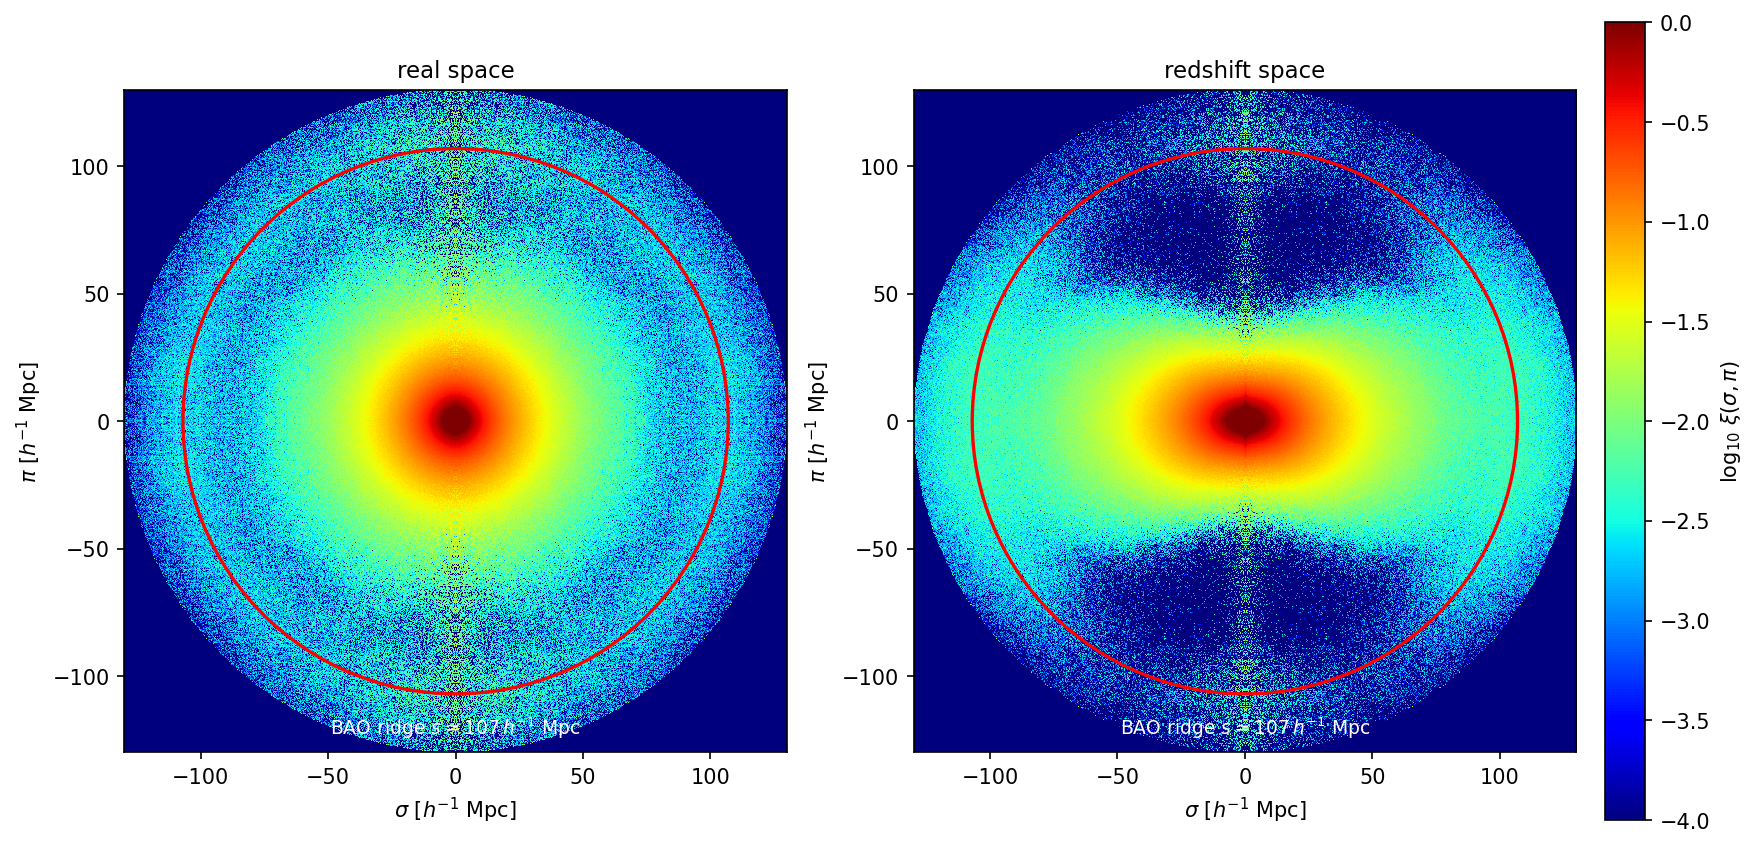
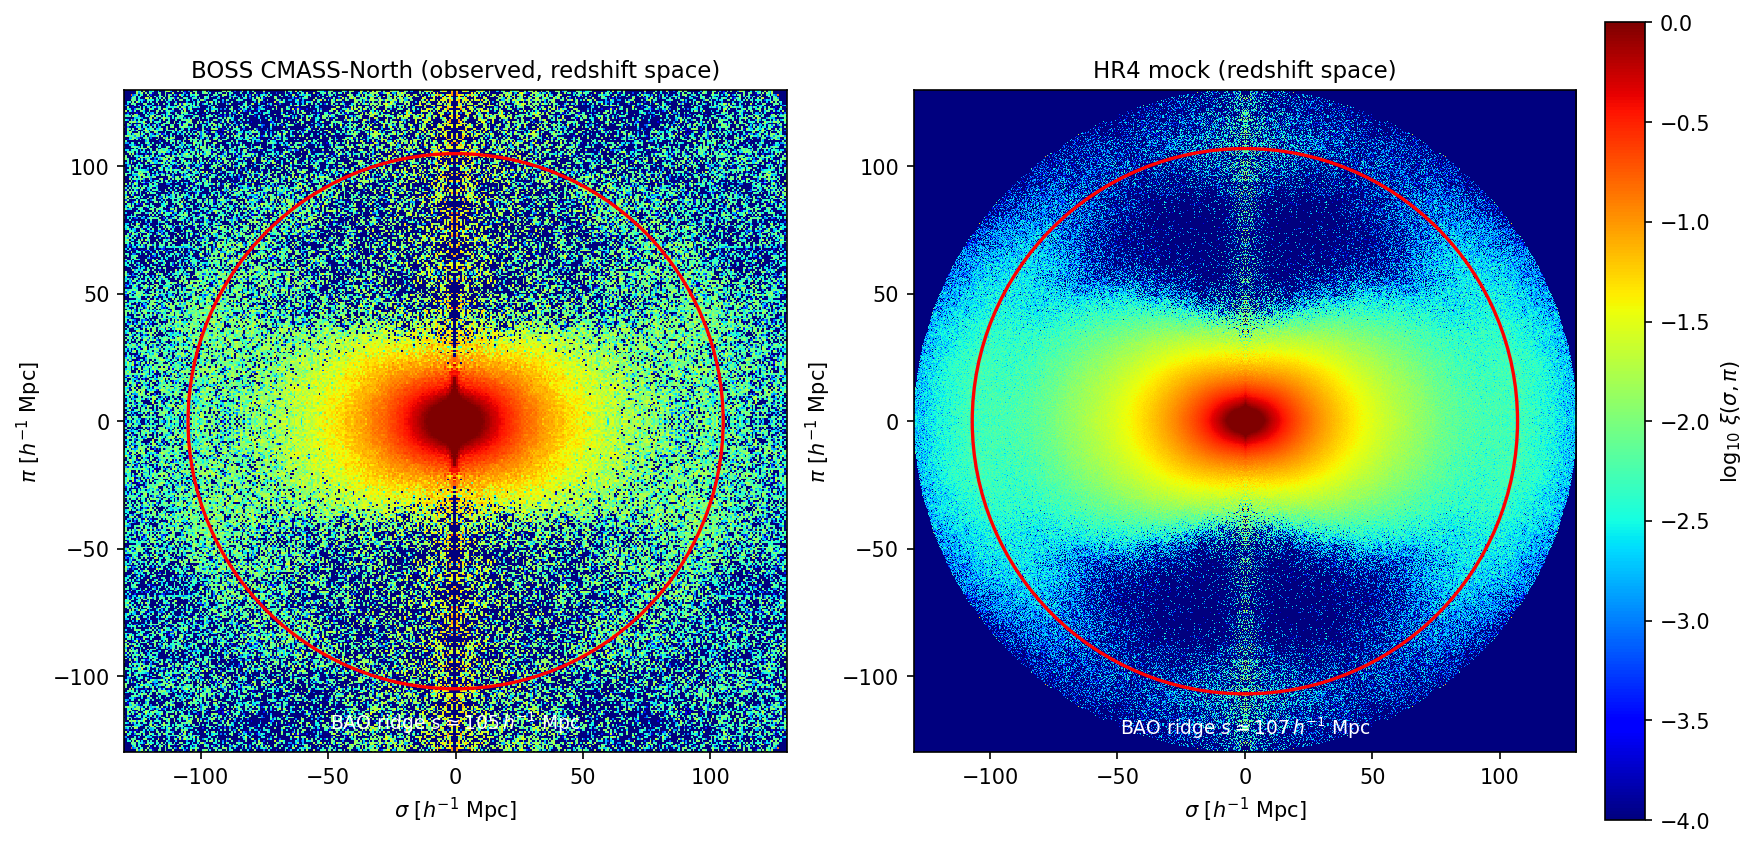
Replace HR4 real-space panel in fig:hr4xi with observed BOSS CMASS-North redshift-space correlation (obscorr pair counts), same colorbar and +-130 h^-1 Mpc radius as the HR4 mock panel; update caption and Figures-and-Sources text accordingly

Changed region(s): [[0.0615, 0.0614, 0.461, 0.8902], [0.6147, 0.0614, 0.7991, 0.0921]]

diff --git a/docs/cosmology_35m_R1000_proposal.tex b/docs/cosmology_35m_R1000_proposal.tex
@@ -1104,7 +1104,7 @@ while the quadrupole-to-monopole structure of $\xi(\sigma,\pi)$ constrains $\fsi
 \begin{figure}[tp]
 \centering
 \includegraphics[width=0.80\textwidth]{gal_corr_hr4.png}
-\caption{Two-dimensional galaxy correlation function $\xi(\sigma,\pi)$ of the Horizon Run 4 mock galaxy catalog \cite{hr4}, rendered directly from the author's pair-count measurement in real space (left) and redshift space (right). The dashed circle marks the BAO scale at $s\simeq107\,h^{-1}$\,Mpc. The nearly circular real-space BAO ring provides the standard ruler, while its anisotropic appearance in redshift space, the small-scale fingers of god and the large-scale Kaiser squashing, encodes the radial BAO scale and the RSD growth information.}
+\caption{Two-dimensional galaxy correlation function $\xi(\sigma,\pi)$ in redshift space, both panels drawn to a common $\pm130\,h^{-1}$\,Mpc radius on the same $\log_{10}|\xi|$ color scale. Left: the observed BOSS CMASS-North catalog, 568{,}776 galaxies against 5{,}000{,}000 randoms with the Landy--Szalay estimator of Eq.~\eqref{eq:xiestimator}, with the solid circle marking its fitted BAO ridge at $s\simeq105\,h^{-1}$\,Mpc. Right: the Horizon Run 4 mock galaxy catalog \cite{hr4}, rendered directly from the author's pair-count measurement, with the solid circle marking its BAO ridge at $s\simeq107\,h^{-1}$\,Mpc. The mock reproduces the same redshift-space distortion signature seen in the real data, the small-scale fingers of god along $\pi$ and the large-scale Kaiser squashing. Therefore, the clustering pipeline used for the ELG forecast is shown recovering the expected anisotropy directly from real galaxies first.}
 \label{fig:hr4xi}
 \end{figure}
 
@@ -2196,7 +2196,7 @@ Figure~\ref{fig:surveytimeline} draws all of the above together into one Sun-ang
 \end{figure}
 
 \section*{Figures and Sources}
-Most schematic figures in this document are generated directly in \LaTeX\ using TikZ. Figure~\ref{fig:crowded} is a slitless scene simulation generated locally at the baseline instrument parameters with the tracked script \texttt{make\_slitless\_scene\_sim.py}, using the repository's FSPS galaxy templates as source spectra. Figure~\ref{fig:slicer} is generated locally with the tracked script \texttt{make\_hsc\_slicer\_demo.py}, using the same instrument parameters and FSPS templates as Figure~\ref{fig:crowded}, but with source positions, brightnesses, sizes, ellipticities, and position angles measured from a real Subaru HSC-SSP deep image of the SXDS/UDS/XMM-LSS anchor \cite{aihara2018} instead of a synthetic population. Figure~\ref{fig:elgspectrum} uses an observed bright SDSS DR17 low-redshift emission-line galaxy spectrum converted to a local plotting table. Figure~\ref{fig:elgobswavez} stacks actual SDSS/BOSS and DESI DR1 spectra retrieved through SPARCL together with HST WFC3/G141 3D-HST COSMOS grism spectra (v4.1.5 1D extractions) and JWST/NIRSpec PRISM star-forming galaxy spectra (msaexp 1D extractions from the DAWN JWST Archive) on an approximately uniform display grid in redshift, spanning the full $0.36$--$3.0\,\mu$m proposed range. Figures~\ref{fig:elgmagdepth} and \ref{fig:desiMlf} use the DESI DR1 LSS ELG catalog with an observed-frame absolute magnitude computed locally from the downloaded FITS table. In Figure~\ref{fig:desiMlf} the binned observed-frame luminosity function is additionally fit with a Schechter function on the bright side of each redshift bin and shown as smooth curves. Figure~\ref{fig:phillips} plots the real Carnegie Supernova Project\,I sample of 139 SNe Ia (Burns et~al.\ \cite{burns2018csp}, VizieR catalog J/ApJ/869/56), computing the host-extinction-corrected peak absolute magnitude $M_V=V_{\max}-\mu_{\rm CV}-R_V\,E(B\!-\!V)$ from the tabulated distance modulus and reddening, plotting it against the tabulated $\Delta m_{15}(B)$, and overlaying a quadratic Phillips relation fitted locally to those points. The figure layout follows Figure 11 of Zeng et~al.\ \cite{zeng2025sn2023ehl}. Figure~\ref{fig:uvtwins} plots the observed flux-calibrated Swift/UVOT UV-grism spectra of SN\,2011fe and SN\,2011by near maximum, retrieved from the Open Supernova Catalog archive \cite{guillochon2017}, deredshifted and scaled over the optical. Figure~\ref{fig:sniacosmo} (the multi-cosmology SN Ia Hubble diagram with current and target Hubble-residual scatter) is generated locally with \texttt{astropy} distance moduli for the four cosmologies against the real Pantheon$+$SH0ES sample \cite{brout2022}, retaining the 1580 Hubble-flow SNe Ia ($z>0.01$, Cepheid calibrators removed). Figure~\ref{fig:nuvband} is generated in TikZ and shows the redshifting of fixed rest-frame wavelengths into the proposed observed band. Figure~\ref{fig:lyathreshold} is computed locally, integrating a Voigt profile to obtain the Ly$\alpha$ curve of growth and inverting it against the $R=1000$ detection limit of Eq.~\eqref{eq:wmin} to give the minimum detectable H\,\textsc{i} column density. Figure~\ref{fig:lya3dexternal} is an external CLAMATO 3D Ly$\alpha$ forest tomography rendering from the arXiv source package. Figure~\ref{fig:hr4xi} is rendered locally from the author's Horizon Run 4 pair-count measurement, the raw $\xi(\sigma,\pi)$ grids in real and redshift space, rather than from any published figure. Figures~\ref{fig:sidmsigmav} and \ref{fig:fdmslice} are the original figures from the arXiv source packages of Kaplinghat, Tulin \& Yu \cite{kaplinghat2016} and Schive et~al.\ \cite{schive2014}, reproduced as published and marked courtesy in their captions, because the underlying per-system cross-section fits and wave-simulation data are not public. Figure~\ref{fig:sparcdiv} is drawn locally from the public SPARC mass-model files \cite{lelli2016}. Figure~\ref{fig:fdmconstraints} is drawn locally from the published bounds quoted in its caption. Figures~\ref{fig:cirrusfil} and \ref{fig:cirruscolors} are the original figures from the arXiv source package of Rom\'an, Trujillo \& Montes \cite{roman2020}, reproduced as published and marked courtesy in their captions, because the processed deep mosaics and per-field cirrus colour measurements behind them are not public. Figure~\ref{fig:hr5gsmf} is the original figure from the arXiv source package of the team's own Horizon Run 5 stellar-mass-function study \cite{kim2023gsmf}, reproduced as published. Figure~\ref{fig:surveytimeline} is generated locally with the tracked script \texttt{make\_survey\_timeline.py}, combining Table~\ref{tab:timeline}'s quoted science-time ranges and real target-field coordinates with an \texttt{astropy} Sun-position calculation, under the illustrative L2/Euclid-Roman-style field-of-regard assumption stated in its caption. Literature and documentation sources are listed below.
+Most schematic figures in this document are generated directly in \LaTeX\ using TikZ. Figure~\ref{fig:crowded} is a slitless scene simulation generated locally at the baseline instrument parameters with the tracked script \texttt{make\_slitless\_scene\_sim.py}, using the repository's FSPS galaxy templates as source spectra. Figure~\ref{fig:slicer} is generated locally with the tracked script \texttt{make\_hsc\_slicer\_demo.py}, using the same instrument parameters and FSPS templates as Figure~\ref{fig:crowded}, but with source positions, brightnesses, sizes, ellipticities, and position angles measured from a real Subaru HSC-SSP deep image of the SXDS/UDS/XMM-LSS anchor \cite{aihara2018} instead of a synthetic population. Figure~\ref{fig:elgspectrum} uses an observed bright SDSS DR17 low-redshift emission-line galaxy spectrum converted to a local plotting table. Figure~\ref{fig:elgobswavez} stacks actual SDSS/BOSS and DESI DR1 spectra retrieved through SPARCL together with HST WFC3/G141 3D-HST COSMOS grism spectra (v4.1.5 1D extractions) and JWST/NIRSpec PRISM star-forming galaxy spectra (msaexp 1D extractions from the DAWN JWST Archive) on an approximately uniform display grid in redshift, spanning the full $0.36$--$3.0\,\mu$m proposed range. Figures~\ref{fig:elgmagdepth} and \ref{fig:desiMlf} use the DESI DR1 LSS ELG catalog with an observed-frame absolute magnitude computed locally from the downloaded FITS table. In Figure~\ref{fig:desiMlf} the binned observed-frame luminosity function is additionally fit with a Schechter function on the bright side of each redshift bin and shown as smooth curves. Figure~\ref{fig:phillips} plots the real Carnegie Supernova Project\,I sample of 139 SNe Ia (Burns et~al.\ \cite{burns2018csp}, VizieR catalog J/ApJ/869/56), computing the host-extinction-corrected peak absolute magnitude $M_V=V_{\max}-\mu_{\rm CV}-R_V\,E(B\!-\!V)$ from the tabulated distance modulus and reddening, plotting it against the tabulated $\Delta m_{15}(B)$, and overlaying a quadratic Phillips relation fitted locally to those points. The figure layout follows Figure 11 of Zeng et~al.\ \cite{zeng2025sn2023ehl}. Figure~\ref{fig:uvtwins} plots the observed flux-calibrated Swift/UVOT UV-grism spectra of SN\,2011fe and SN\,2011by near maximum, retrieved from the Open Supernova Catalog archive \cite{guillochon2017}, deredshifted and scaled over the optical. Figure~\ref{fig:sniacosmo} (the multi-cosmology SN Ia Hubble diagram with current and target Hubble-residual scatter) is generated locally with \texttt{astropy} distance moduli for the four cosmologies against the real Pantheon$+$SH0ES sample \cite{brout2022}, retaining the 1580 Hubble-flow SNe Ia ($z>0.01$, Cepheid calibrators removed). Figure~\ref{fig:nuvband} is generated in TikZ and shows the redshifting of fixed rest-frame wavelengths into the proposed observed band. Figure~\ref{fig:lyathreshold} is computed locally, integrating a Voigt profile to obtain the Ly$\alpha$ curve of growth and inverting it against the $R=1000$ detection limit of Eq.~\eqref{eq:wmin} to give the minimum detectable H\,\textsc{i} column density. Figure~\ref{fig:lya3dexternal} is an external CLAMATO 3D Ly$\alpha$ forest tomography rendering from the arXiv source package. Figure~\ref{fig:hr4xi} combines an observed BOSS CMASS-North pair-count measurement (obscorr pipeline, the same source data behind \texttt{plot\_bao\_jk.py}) with the author's Horizon Run 4 mock $\xi(\sigma,\pi)$ pair-count measurement in redshift space, rather than reproducing any published figure. Figures~\ref{fig:sidmsigmav} and \ref{fig:fdmslice} are the original figures from the arXiv source packages of Kaplinghat, Tulin \& Yu \cite{kaplinghat2016} and Schive et~al.\ \cite{schive2014}, reproduced as published and marked courtesy in their captions, because the underlying per-system cross-section fits and wave-simulation data are not public. Figure~\ref{fig:sparcdiv} is drawn locally from the public SPARC mass-model files \cite{lelli2016}. Figure~\ref{fig:fdmconstraints} is drawn locally from the published bounds quoted in its caption. Figures~\ref{fig:cirrusfil} and \ref{fig:cirruscolors} are the original figures from the arXiv source package of Rom\'an, Trujillo \& Montes \cite{roman2020}, reproduced as published and marked courtesy in their captions, because the processed deep mosaics and per-field cirrus colour measurements behind them are not public. Figure~\ref{fig:hr5gsmf} is the original figure from the arXiv source package of the team's own Horizon Run 5 stellar-mass-function study \cite{kim2023gsmf}, reproduced as published. Figure~\ref{fig:surveytimeline} is generated locally with the tracked script \texttt{make\_survey\_timeline.py}, combining Table~\ref{tab:timeline}'s quoted science-time ranges and real target-field coordinates with an \texttt{astropy} Sun-position calculation, under the illustrative L2/Euclid-Roman-style field-of-regard assumption stated in its caption. Literature and documentation sources are listed below.
 
 \clearpage
 \begin{thebibliography}{99}

diff --git a/make_hr4_xi2d.py b/make_hr4_xi2d.py
@@ -1,12 +1,17 @@
 #!/usr/bin/env python3
-"""Two-dimensional galaxy two-point correlation function of the Horizon Run 4
-mock galaxy (PSB) catalog, drawn directly from the author's pair-count
-measurement (the maps behind Kim et al. 2015 are re-rendered here from the
-raw xi(sigma,pi) grids, not reproduced from any published figure).
+"""Two-dimensional galaxy two-point correlation function: observed BOSS
+CMASS-North data (left) against the Horizon Run 4 mock galaxy (PSB) catalog
+in redshift space (right), on the same log10|xi| color scale and the same
++-130 h^-1 Mpc display radius.
 
-Input grids: quadrant-mirrored 1024x1024 xi(sigma,pi) maps on a 0.2539
-h^-1 Mpc grid (extent +-130 h^-1 Mpc), in real space (no peculiar
-velocities) and in redshift space (peculiar velocities applied along pi).
+Left panel: obscorr pair-count measurement of BOSS CMASS-North (Nd=568776,
+nbin=256, RMAX=180 h^-1 Mpc, linear binning), from the source data behind
+/home/kjhan/BACKUP/YYCHOI/sdss2pcf/src/plot_bao_jk.py.
+Right panel: quadrant-mirrored 1024x1024 xi(sigma,pi) map on a 0.2539
+h^-1 Mpc grid (extent +-130 h^-1 Mpc), in redshift space (peculiar
+velocities applied along pi); the maps behind Kim et al. 2015 are
+re-rendered here from the raw xi(sigma,pi) grid, not reproduced from any
+published figure.
 """
 import numpy as np
 import matplotlib
@@ -16,28 +21,47 @@ from matplotlib.patches import Circle
 from astropy.io import fits
 
 BASE = "/scratch/kjhan/Nbody/HR4/FoFPSB/L0.2/Correlation"
-DX = 0.2539                       # h^-1 Mpc per bin
-BAO = 107.0                       # h^-1 Mpc
+DX = 0.2539                       # h^-1 Mpc per bin (HR4 mock grid)
+BAO_HR4 = 107.0                    # h^-1 Mpc, HR4 mock BAO ridge
 
-panels = [("hr4psb.nopv.mir.dat.fits", "real space"),
-          ("hr4psb.pv.mir.dat.fits", "redshift space")]
+BOSS_FILE = "/home/kjhan/BACKUP/YYCHOI/sdss2pcf/boss/obscorr_cmass_bao_n256.out"
+BOSS_RMAX = 180.0                  # h^-1 Mpc, obscorr nbin=256 RMAX=180 (bao_n256.log)
+BAO_BOSS = 105.0                   # h^-1 Mpc, observed BAO ridge (plot_bao_jk.py)
+
+
+def read_boss_xi2d(fn):
+    with open(fn, "rb") as f:
+        nx, ny = np.fromfile(f, np.int32, 2)
+        return np.fromfile(f, np.float32, nx * ny).reshape(ny, nx)
+
+
+def log_xi(xi):
+    # scaling follows the original kjhan.pro: log10|xi| with non-positive
+    # values floored (2e-9), displayed over [-4, 0]
+    return np.log10(np.abs(np.where(np.isfinite(xi) & (xi > 0), xi, 2e-9)))
+
+
+cmap = plt.get_cmap("jet").copy()               # cgLoadCT 33 equivalent
+cmap.set_bad(cmap(0.0))
+
+xi_hr4 = fits.open(f"{BASE}/hr4psb.pv.mir.dat.fits")[0].data.astype(float)
+n_hr4 = xi_hr4.shape[0]
+half = DX * n_hr4 / 2.0            # +-130 h^-1 Mpc, sets the shared display radius
+
+xi_boss = read_boss_xi2d(BOSS_FILE)
+half_boss = BOSS_RMAX               # -RMAX..+RMAX, 2*nbin+1 mirrored grid
+
+panels = [(xi_boss, half_boss, BAO_BOSS, "BOSS CMASS-North (observed, redshift space)"),
+          (xi_hr4, half, BAO_HR4, "HR4 mock (redshift space)")]
 
 fig, axes = plt.subplots(1, 2, figsize=(11.6, 5.6), dpi=150,
                          constrained_layout=True)
-for ax, (fname, title) in zip(axes, panels):
-    xi = fits.open(f"{BASE}/{fname}")[0].data.astype(float)
-    n = xi.shape[0]
-    half = DX * n / 2.0
-    # scaling follows the original kjhan.pro: log10|xi| with non-positive
-    # values floored (2e-9), displayed over [-4, 0]
-    lg = np.log10(np.abs(np.where(np.isfinite(xi) & (xi > 0), xi, 2e-9)))
-    cmap = plt.get_cmap("jet").copy()               # cgLoadCT 33 equivalent
-    cmap.set_bad(cmap(0.0))
-    im = ax.imshow(lg, origin="lower", extent=(-half, half, -half, half),
+for ax, (xi, h, bao, title) in zip(axes, panels):
+    im = ax.imshow(log_xi(xi), origin="lower", extent=(-h, h, -h, h),
                    cmap=cmap, vmin=-4.0, vmax=0.0, interpolation="nearest",
                    rasterized=True)
-    ax.add_patch(Circle((0, 0), BAO, fill=False, color="red", lw=1.6))
-    ax.text(0, -BAO - 16, f"BAO ridge $s\\simeq{BAO:.0f}\\,h^{{-1}}$ Mpc",
+    ax.add_patch(Circle((0, 0), bao, fill=False, color="red", lw=1.6))
+    ax.text(0, -bao - 16, f"BAO ridge $s\\simeq{bao:.0f}\\,h^{{-1}}$ Mpc",
             color="white", fontsize=9, ha="center")
     ax.set_xlim(-half, half); ax.set_ylim(-half, half)
     ax.set_xlabel(r"$\sigma$ [$h^{-1}$ Mpc]")
@@ -46,7 +70,5 @@ for ax, (fname, title) in zip(axes, panels):
     ax.set_aspect("equal")
 cb = fig.colorbar(im, ax=axes, fraction=0.035, pad=0.02)
 cb.set_label(r"$\log_{10}\,\xi(\sigma,\pi)$")
-fig.suptitle("Horizon Run 4 mock-galaxy two-dimensional correlation function",
-             fontsize=12)
 fig.savefig("gal_corr_hr4.png", bbox_inches="tight")
 print("wrote gal_corr_hr4.png")
